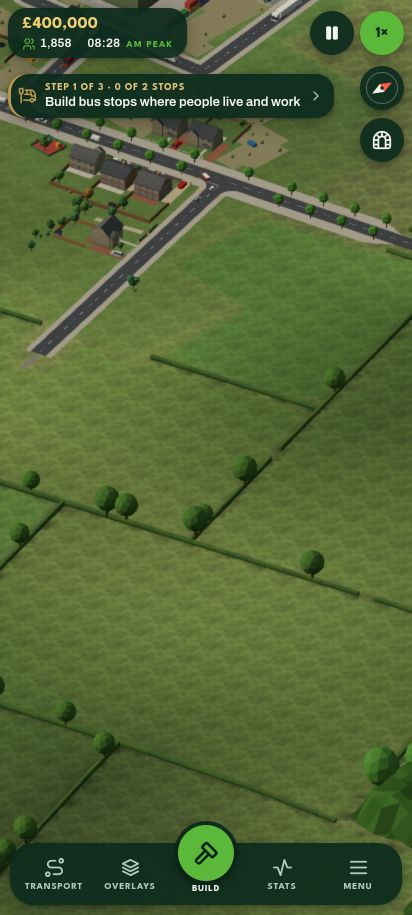
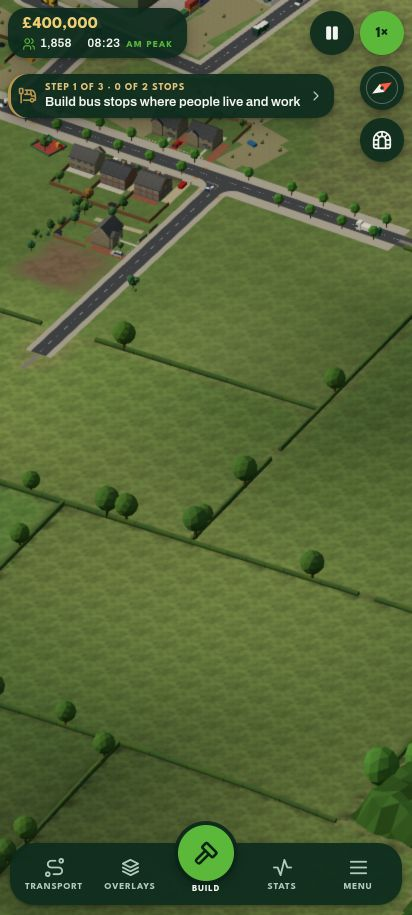
The town's band exact per texel, 20 m from a plot's middle, so a repaint after a building stays cheap
CI's first run failed the repaint budget (4.1 ms against 2.8): the band was read off the
coarse grid's 20 m cells, so a plot could change the ground 52 m round it and a repaint had
to reach that far, and every plot at the fields' edge replanned the hedges over that much.
Now Layout.townAt is exact, from the plots' middles on a 32 m grid, the band is TOWN_BAND
(20 m: a garden's back fence and a few metres of mown ground behind it), a repaint reaches
TOWN_REACH (21 m) and only where a field lies within that reach (in the town itself, only
the plot), and the hedge planning box grows only by the same. Cold, the repaint after one
building is 2.5 ms here against 0.6 ms before this PR (warm 1.1 against 0.3); about 1.1 ms
on CI's machine, under its 2.8 ms budget. The coarse grid still decides what a whole parcel
is. Screenshots retaken.

Claude-Session: https://claude.ai/code/session_016uD19qC4yiFZR8AhPrtiib

diff --git a/src/proto/ground/layout.ts b/src/proto/ground/layout.ts
@@ -14,6 +14,9 @@ import { Countryside } from '../region/fields';
 
 export interface XZ { x: number; z: number }
 export type ParcelKind = 'arable' | 'grass' | 'wood' | 'rough' | 'town';
+// how far the town's ground reaches past a plot's middle (m): a garden's back fence and a few metres
+// of mown ground behind it, then the fields (`Layout.townAt`)
+export const TOWN_BAND = 20;
 
 // What the painter needs to know about the world. Every polygon is in world metres.
 export interface GroundInput {
@@ -147,8 +150,12 @@ export class Layout {
     }
     const c = (this.coarse = new Coarse(this.fixed.coarse));
     // the town reaches 30 m past its plots and parks, the industrial estate likewise
-    for (const p of input.plots ?? []) { if (p.kind === 'track') continue; const m = centroid(p.poly); c.mark(p.kind === 'yard' ? INDUS : TOWN, m.x, m.z, 30); }
-    for (const p of input.town ?? []) c.mark(TOWN, p.x, p.z, 30);
+    const spots = new Map<number, { x: number; z: number; r: number }[]>();
+    const spot = (x: number, z: number, r: number) => { const k = (Math.floor(x / 32) + 32768) * 65536 + (Math.floor(z / 32) + 32768), l = spots.get(k); if (l) l.push({ x, z, r }); else spots.set(k, [{ x, z, r }]); };
+    for (const p of input.plots ?? []) { if (p.kind === 'track') continue; const m = centroid(p.poly); c.mark(p.kind === 'yard' ? INDUS : TOWN, m.x, m.z, 30); if (p.kind !== 'yard') spot(m.x, m.z, TOWN_BAND); }
+    for (const p of input.town ?? []) { c.mark(TOWN, p.x, p.z, 30); spot(p.x, p.z, TOWN_BAND); }
+    for (const p of input.parks ?? []) { const b = bbox(p.poly); spot((b.x0 + b.x1) / 2, (b.z0 + b.z1) / 2, TOWN_BAND * 0.7); }
+    this.spots = spots;
     const changed: Box[] = [];
     if (!near) return changed;
     // every field with ground within 52 m of the box (a plot marks the town 30 m round it, on 20 m cells)
@@ -164,8 +171,22 @@ export class Layout {
     return changed;
   }
   boxOf(id: number) { return { ...this.plan.boxes[id] }; }
-  // is this spot within 30 m of the town's plots (or the ground the town has marked as its own)?
-  townAt(x: number, z: number) { return (this.coarse.at(x, z) & TOWN) !== 0; }
+  // the town's plots, points and parks, on a 32 m grid, for `townAt`
+  private spots = new Map<number, { x: number; z: number; r: number }[]>();
+  // the fields with ground in a box (laid out if they aren't yet)
+  fieldsIn(box: Box): number[] { this.ensure(box, 0); return this.plan.fieldsNear(box); }
+  // is this spot within the town's band: TOWN_BAND of a plot's middle (or a point the town marked
+  // as its own), less of a park's? Exact, texel by texel, so a repaint after a plot need only
+  // reach that far (paint.ts TOWN_REACH); the coarse grid above, on 20 m cells, decides what a
+  // whole parcel is.
+  townAt(x: number, z: number) {
+    const i = Math.floor(x / 32), j = Math.floor(z / 32);
+    for (let a = i - 1; a <= i + 1; a++) for (let b = j - 1; b <= j + 1; b++) {
+      const l = this.spots.get((a + 32768) * 65536 + (b + 32768));
+      if (l) for (const s of l) if ((s.x - x) ** 2 + (s.z - z) ** 2 <= s.r * s.r) return true;
+    }
+    return false;
+  }
   // What a field is: what its source says, unless the town has grown over it (half of it within
   // 30 m of plots) or industry has, or it's a field at the water's edge (then it's grass). A field
   // the town has reached but not grown over stays a field (`mixed`): the ground within 30 m of the

diff --git a/src/proto/ground/index.ts b/src/proto/ground/index.ts
@@ -110,12 +110,16 @@ export class Ground {
   change(input: GroundInput, boxes: Box[]) {
     const t0 = performance.now();
     if (!this.cover) { this.layout.setInput(input); return; }
-    // (a plot marks the town round it, TOWN_REACH out: that ground, and its hedges, change with it)
-    const dirty: Box[] = [...boxes.map((b) => ({ x0: b.x0 - TOWN_REACH, z0: b.z0 - TOWN_REACH, x1: b.x1 + TOWN_REACH, z1: b.z1 + TOWN_REACH })), ...this.layout.setInput(input, boxes)];
+    const changed = this.layout.setInput(input, boxes);
+    // (a plot marks the town round it, TOWN_REACH out, where a field lies within that reach: that
+    // ground, and its hedges, change with it; in the town itself nothing round the plot changes)
+    const reach = (b: Box) => { const R = TOWN_REACH, B = { x0: b.x0 - R, z0: b.z0 - R, x1: b.x1 + R, z1: b.z1 + R }; return this.layout.fieldsIn(B).some((id) => this.layout.about(id).kind !== 'town') ? B : b; };
+    const dirty: Box[] = [...boxes.map(reach), ...changed];
     if (this.plants && dirty.length) {
-      // hedges within reach of the change (a hedge keeps 2 m off a plot), and wherever a gateway
-      // (painted as worn earth) came or went
-      const plan = dirty.map((b) => ({ x0: b.x0 - 8, z0: b.z0 - 8, x1: b.x1 + 8, z1: b.z1 + 8 }));
+      // hedges within reach of the change (a hedge keeps 2 m off a plot, and off the town's reach),
+      // and wherever a gateway (painted as worn earth) came or went
+      const plan = [...boxes.map((b) => ({ x0: b.x0 - 8, z0: b.z0 - 8, x1: b.x1 + 8, z1: b.z1 + 8 })), ...dirty.slice(boxes.length)];
+      for (const [k, b] of boxes.entries()) if (dirty[k] !== b) plan.push(dirty[k]); // (the town's reach round a plot at the fields' edge: the hedges in it go)
       const occ = new Occupancy(input);
       const gateBoxes: Box[] = [];
       let moved = false;

diff --git a/src/proto/ground/ground.test.ts b/src/proto/ground/ground.test.ts
@@ -133,7 +133,7 @@ describe('painting', () => {
     expect(pools(big)).toBe(0);
     small.dispose(); big.dispose();
   });
-  it('keeps a field the town has only reached, painted as town within 30 m of the plots and unhedged there', () => {
+  it('keeps a field the town has only reached, painted as town in the band round its plots and unhedged there', () => {
     // (a row of gardens along one side of a field, as a ribbon of houses at a town's ragged edge)
     const A = town(), B = { ...A, plots: [...A.plots!] };
     const gardens: XZ[] = [];
@@ -144,14 +144,14 @@ describe('painting', () => {
     const f = L.fieldAt(-240, 400), inf = L.about(f);
     expect(inf.kind === 'arable' || inf.kind === 'grass').toBe(true); // (still a field: the gardens reach it, they don't cover it)
     expect(inf.mixed).toBe(true);
-    expect(L.townAt(-240, 345)).toBe(true); // (within 30 m of the gardens)
-    expect(at(-240, 345).field).toBe(0);
-    expect(at(-240, 345).lawn).toBeGreaterThan(0.3);
+    expect(L.townAt(-240, 331)).toBe(true); // (just past the gardens' back fence: in the band)
+    expect(at(-240, 331).field).toBe(0);
+    expect(at(-240, 331).lawn).toBeGreaterThan(0.2);
     // (further into the field, if it's still the same field: its crop)
     const far = L.fieldAt(-240, 420);
     if (far === f && !L.townAt(-240, 420)) expect(at(-240, 420).field).toBeGreaterThan(0.5);
-    // no hedge piece within 30 m of the gardens
-    for (const h of g.hedgeList().pieces) for (const q of gardens) expect(Math.hypot(h.x - q.x, h.z - q.z)).toBeGreaterThan(24);
+    // no hedge piece in the band round the gardens
+    for (const h of g.hedgeList().pieces) for (const q of gardens) expect(Math.hypot(h.x - q.x, h.z - q.z)).toBeGreaterThan(16);
     g.dispose();
   });
   it('is deterministic', () => {

diff --git a/src/proto/ground/paint.ts b/src/proto/ground/paint.ts
@@ -6,16 +6,16 @@ import { CROP, DIRS } from './covers';
 import { worldNoise } from './noise';
 
 const DPI = DIRS / Math.PI;
-import { bbox, Layout, type ParcelInfo, type XZ } from './layout';
+import { bbox, Layout, type ParcelInfo, type XZ, TOWN_BAND } from './layout';
 
 export interface Region { x0: number; z0: number; size: number; n: number } // n texels across
 export interface Rect { i0: number; j0: number; i1: number; j1: number } // texels, i1/j1 exclusive
 
 const DT = 8; // how far (texels) distances are tracked: wet grass reaches this far from water
 const MARGIN = DT + 3;
-// the town's reach past a plot: its centroid marks the coarse grid (20 m cells) 30 m round, so a
-// texel up to about 50 m off can change with it (layout.ts townAt); a repaint's window reaches that far
-export const TOWN_REACH = 52;
+// the town's reach past a plot: the ground within TOWN_BAND of its middle is the town's (layout.ts
+// townAt, exact), so a repaint after a plot reaches that far, and a little more for the texel
+export const TOWN_REACH = TOWN_BAND + 1;
 const POOL_KEEP = 1 << 20; // texels: the scratch layers of a bigger paint than this aren't kept (see CoverMap)
 const smooth = (a: number, b: number, x: number) => { const t = Math.min(1, Math.max(0, (x - a) / (b - a))); return t * t * (3 - 2 * t); };
 

diff --git a/docs/briefs/country.md b/docs/briefs/country.md
@@ -74,10 +74,13 @@ https://claude.ai/code/session_01NoR4Fo844FXMiY63oVBeCU (docs/briefs/PLAN.md, de
     of mown "town" lay round the whole built area, because a field became town once 15% of it lay within
     30 m of a plot, and every plot still in the queue (68, out to 480 m) marked the town round it. Now: a
     field turns town only once half of it is built over; a field the town has reached stays a field, and the
-    ground within 30 m of the plots is painted as town texel by texel (`Layout.townAt`) with no hedge through
-    it, so the crops run up to the back gardens; and only the next four plots in the queue (the building
-    sites) mark the town, not the whole queue. A repaint after a plot reaches 52 m round it (`TOWN_REACH`)
-    so it stays exact. Screenshots at 700 m, 350 m and 2 km, before and after:
+    ground within 20 m of a plot's middle (`TOWN_BAND`, the back fence and a few metres behind it) is painted
+    as town texel by texel (`Layout.townAt`) with no hedge through it, so the crops run up to the back
+    gardens; and only the next four plots in the queue (the building sites) mark the town, not the whole
+    queue. A repaint after a plot at the fields' edge reaches 21 m round it (`TOWN_REACH`) so it stays exact;
+    CI's first run of this failed its 2 ms repaint budget at 52 m (4.1 ms), so the band is exact per texel
+    rather than on 20 m cells and the reach 21 m: cold 2.5 ms here against the old 0.6 ms, warm 1.1 ms
+    against 0.3 ms, about 1.1 ms on CI's machine. Screenshots at 700 m, 350 m and 2 km, before and after:
     `docs/reports/country/before-edge-700-w.jpg`, `after-edge-700-w.jpg`, `before-edge-350-e.jpg`,
     `after-edge-350-e.jpg`, `before-edge-2km.jpg`, `after-edge-2km.jpg`. What's left round the town is its
     parks (the leftover land the game landscapes, 5 ha) and the 30 m band. A test in `ground.test.ts`.

diff --git a/docs/ground.md b/docs/ground.md
@@ -90,10 +90,11 @@ their bent and swirled edges, are gone.)
 What a field becomes is its source's (arable, grass, wood, rough), unless:
 
 - the town has grown over it (more than half of it within 30 m of plots), which makes it town. A
-  field the town has only reached stays a field, and the ground within 30 m of the plots is
-  painted as town, texel by texel (`Layout.townAt`), with no hedge through it: the crops run up
-  to the back gardens, as they do at a real town's ragged edge, and a repaint after a plot
-  reaches `TOWN_REACH` (52 m) round it;
+  field the town has only reached stays a field, and the ground within 20 m of a plot's middle
+  (`TOWN_BAND`: the back fence and a few metres behind it) is painted as town, texel by texel
+  (`Layout.townAt`), with no hedge through it: the crops run up to the back gardens, as they do
+  at a real town's ragged edge. A repaint after a plot at the fields' edge reaches `TOWN_REACH`
+  (21 m) round it, so it stays exact; in the town itself it reaches only the plot;
 - industry has (more than 12%), which makes it rough;
 - it's arable at the water's edge, which makes it grass.
 
